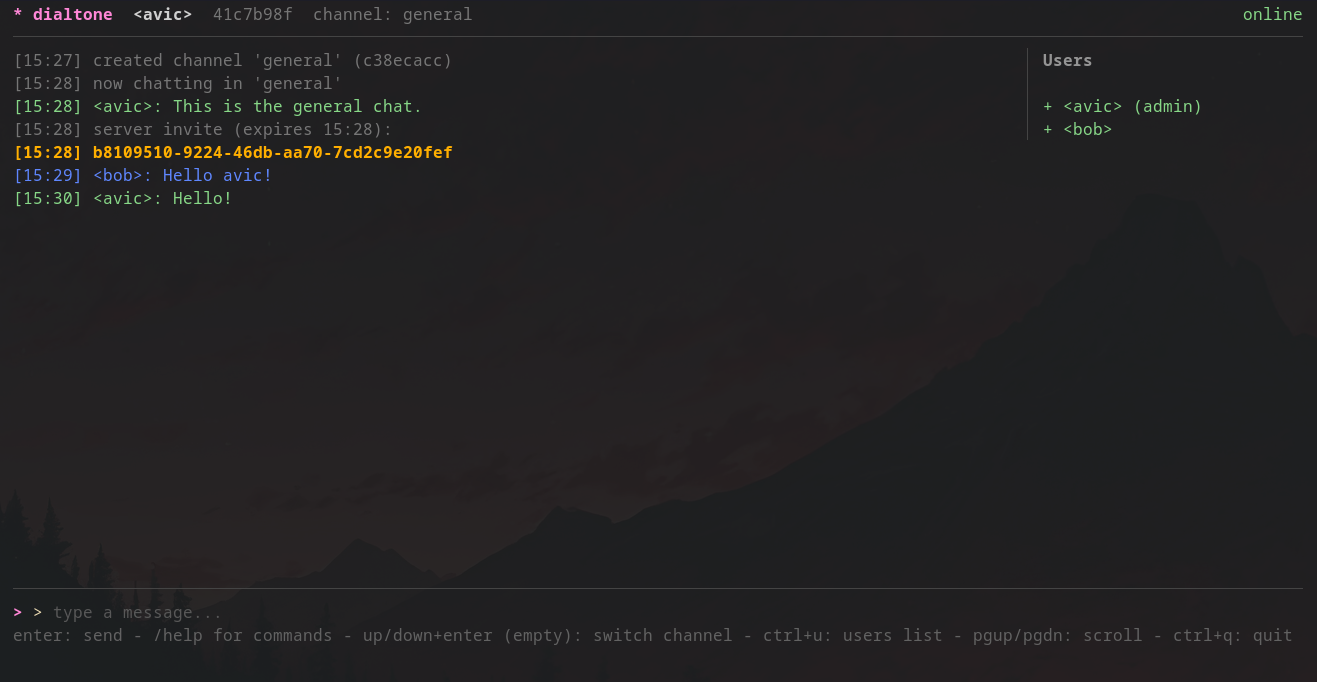
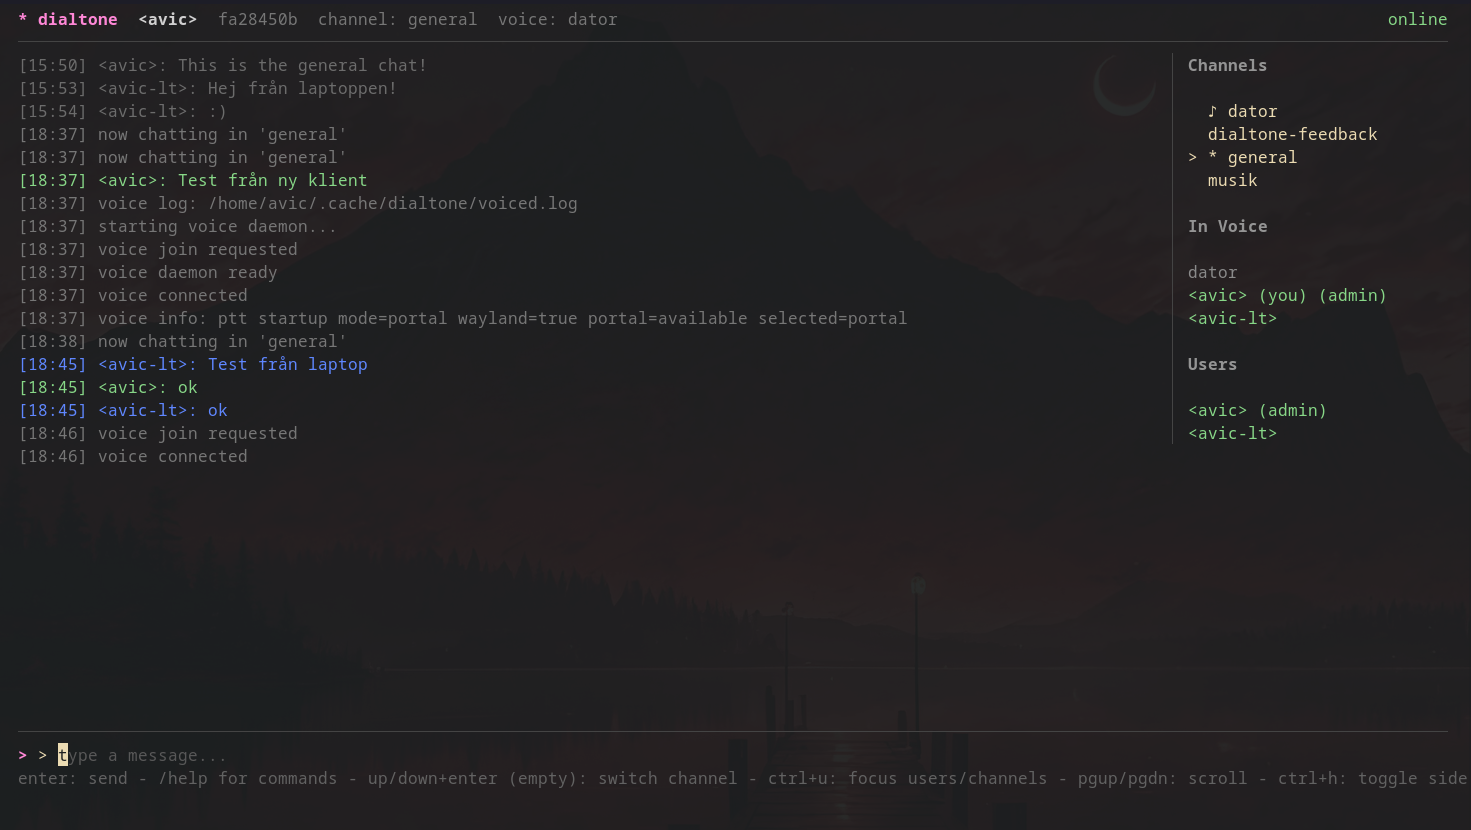
feat: update README for server admin and normal user guides, enhance voice chat configuration details, and replace client images

diff --git a/README.md b/README.md
@@ -8,59 +8,80 @@ Dialtone is a realtime websocket chat with end-to-end encrypted message bodies a
 Dialtone uses symmetric encryption for message bodies and channel names, and public key encryption to share those symmetric keys across devices. The server never sees plaintext message content or channel names, but it can see routing metadata required for the system to function. Usernames are sent in plaintext during login/register and stored only as a peppered hash (no plaintext usernames in the database).
 
 ## Client
-![docs/dialtone-client-01.png](docs/dialtone-client-01.png)
-![docs/dialtone-client-02.png](docs/dialtone-client-02.png)
+![Dialtone client screen 1](docs/dialtone-client-01.png)
 
-## Quick start (server)
+## Who does what?
 
-### Requirements
+### Server admin (infrastructure owner)
+You set up and operate Dialtone server infrastructure:
+- Database + server process
+- Server environment variables and secrets
+- Invite generation
+- TURN service for voice chat (required)
+
+### Normal user (chat participant)
+You run the client only:
+- Connect to an existing Dialtone server
+- Register using an invite token from the admin
+- Log in and chat
+- Optionally enable voice
+
+## Server admin guide
+
+### 1) Requirements
 - Go 1.22+
 - Postgres 16+
+- Or docker
 
-### Configure
-Copy the example env file and set required values:
+### 2) Configure server environment
+
+Copy and edit environment variables:
 
 ```bash
 cp .env.example .env
 ```
 
-Required variables:
-- DIALTONE_DB_URL
-- DIALTONE_USERNAME_PEPPER
-- DIALTONE_CHANNEL_KEY
-- DIALTONE_ADMIN_TOKEN
+At minimum, set these to secure values:
+- `DIALTONE_DB_URL`
+- `DIALTONE_USERNAME_PEPPER`
+- `DIALTONE_CHANNEL_KEY`
+- `DIALTONE_ADMIN_TOKEN`
 
-Generate secrets:
+Generate random values:
 
 ```bash
 openssl rand -base64 32
 ```
 
-Use the output for DIALTONE_USERNAME_PEPPER and DIALTONE_CHANNEL_KEY. Set a strong random value for DIALTONE_ADMIN_TOKEN.
+Use that output for `DIALTONE_USERNAME_PEPPER` and `DIALTONE_CHANNEL_KEY`, and set a strong random `DIALTONE_ADMIN_TOKEN`.
 
-### Run server
+### 3) Run the server
 
 ```bash
 export $(grep -v '^#' .env | xargs)
-
 go run ./cmd/server
 ```
 
-## Voice (TURN/STUN)
+### 4) Create invite tokens for users
 
-Dialtone voice uses WebRTC and benefits from TURN for NAT traversal. A coturn service is included in docker-compose for local testing.
-
-### Voice requirements
-
-- CGO enabled (`CGO_ENABLED=1`)
-- libopus installed (for Opus encoding)
-- An audio backend (ALSA/PulseAudio/PipeWire on Linux; WASAPI on Windows)
-
-### Configure TURN
-
-Update `.env` with TURN settings:
-
+```bash
+curl -s -X POST http://localhost:8080/server/invites \
+  -H "X-Admin-Token: $DIALTONE_ADMIN_TOKEN"
 ```
+
+Response includes `token` and `expires_at`. Share the token with a user so they can register.
+
+### 5) (Optional) Production reverse proxy
+
+You can place a reverse proxy (for example HAProxy) in front of Dialtone for TLS termination. Keep the backend connection private.
+
+### 6) TURN for voice chat (required)
+
+Dialtone voice uses WebRTC and requires TURN for connectivity.
+
+Update `.env` TURN values:
+
+```dotenv
 TURN_USER=turn
 TURN_PASS=replace-with-strong-random-password
 TURN_REALM=turn.example.com
@@ -73,85 +94,75 @@ TURN_MIN_PORT=49152
 TURN_MAX_PORT=49252
 ```
 
-Use a DNS record such as `turn.example.com` that resolves to your server's public IP.
-
-Open firewall ports for TURN:
-
+Open firewall ports:
 - `3478/tcp` and `3478/udp`
 - `5349/tcp`
 - `TURN_MIN_PORT`-`TURN_MAX_PORT` (UDP relay range)
 
-If a host port is already in use, choose a different TURN listening port or relay UDP range.
-
-Start coturn:
+Start coturn with the repo compose file:
 
 ```bash
 docker compose up -d coturn
 ```
 
-Build and run the client with TURN (and optional STUN) settings:
+## Normal user guide
+
+### 1) Requirements
+- A running Dialtone server URL from your admin
+- An invite token from your admin (for first-time registration)
+- Go 1.22+ (if building from source)
+
+### 2) Build the client
 
 ```bash
-go build -o ./bin/client ./cmd/client
+make build-client
+```
 
+### 3) Start the client
+
+```bash
+./bin/client --server https://dialtone.domain.com
+```
+
+Inside the TUI:
+- New users register with the invite token
+- Existing users log in with their credentials
+
+### 4) (Optional) Enable voice
+
+Voice chat requires TURN to be configured by the server admin.
+
+Voice prerequisites:
+- CGO enabled (`CGO_ENABLED=1`)
+- `libopus` installed
+- Audio backend (ALSA/PulseAudio/PipeWire on Linux; WASAPI on Windows)
+
+Build voice daemon:
+
+```bash
+make build-dialtone-voiced
+```
+
+Run with PTT example:
+
+```bash
 ./bin/client \
   --server https://dialtone.domain.com \
   --voice-debug \
-  --voice-ptt caps \
   --voice-meter \
   --voice-ptt-backend portal \
-  --voice-turn "turn:turn.dialtone.domain.com:3478?transport=udp,turn:turn.dialtone.domain.com:3478?transport=tcp,turns:turn.dialtone.domain.com:5349?transport=tcp" \
-  --voice-turn-user "<TURN_USER>" \
-  --voice-turn-pass "<TURN_PASS>"
-  
+  --voice-ptt caps
 ```
 
-You can also provide STUN servers with `--stun`
+For voice chat, add the TURN settings provided by your admin:
+- `--voice-turn`
+- `--voice-turn-user`
+- `--voice-turn-pass`
 
-Client auto-start (recommended for debugging):
-
-```bash
-# Voice activation
-./bin/client --voice-debug --voice-ptt "" --voice-meter --voice-vad 20
-
-# PTT
-./bin/client --voice-debug --voice-meter --voice-ptt-backend portal --voice-ptt caps
-```
-
-- `--voice-debug` writes `dialtone-voiced` logs to a file (see the client UI for the log path).
-- On Linux, global PTT uses the XDG Desktop Portal (`org.freedesktop.portal.GlobalShortcuts`) over D-Bus (your desktop may prompt for permission).
-- `--voice-ptt ""` disables push-to-talk and uses VAD.
-- `--ptt-backend` (`auto|portal|hotkey`) controls daemon PTT backend selection.
-- `--voice-ptt-backend` (`auto|portal|hotkey`) passes backend selection to auto-started `dialtone-voiced`.
-- `--voice-vad <n>` lowers or raises the VAD threshold (lower = more sensitive).
-- `--voice-meter` logs mic levels to the `dialtone-voiced` log file once per second.
-- `--voice-stun/--voice-turn/--voice-turn-user/--voice-turn-pass` are passed to the auto-started `dialtone-voiced` daemon.
-- On Wayland (`auto` backend), Dialtone requires portal global shortcuts by default. To force direct hotkey fallback anyway, set `DIALTONE_PTT_WAYLAND_HOTKEY_FALLBACK=1`.
-- On non-Wayland Linux, if portal registration is unavailable, Dialtone falls back to direct hotkey registration.
-
-### Create initial invite
-
-```bash
-curl -s -X POST http://localhost:8080/server/invites \
-  -H "X-Admin-Token: $DIALTONE_ADMIN_TOKEN"
-```
-
-#### From within the dialtone docker container using curl:
-```bash
-export $(grep -v '^#' .env | xargs)
-
-docker exec -it dialtone sh -c 'curl -X POST \
-  -H "X-Admin-Token: $DIALTONE_ADMIN_TOKEN" \
-  http://localhost:8080/server/invites'
-```
-
-The response includes token and expires_at. Use the token when registering a new user.
-
-## Reverse proxy
-You can place a reverse proxy (for example HAProxy) in front of the server to perform SSL/TLS termination. Keep the backend connection private and protected.
+`--voice-ptt ""` disables push-to-talk and uses VAD.
 
 ## Client storage
-Local client keys are stored under ~/.config/dialtone on Linux and %APPDATA%\\dialtone on Windows. The keystore is encrypted with a passphrase you enter at login.
+Local client keys are stored under `~/.config/dialtone` on Linux and `%APPDATA%\\dialtone` on Windows. The keystore is encrypted with a passphrase you enter at login.
 
 ## Documentation
 - [API](docs/API.md)
